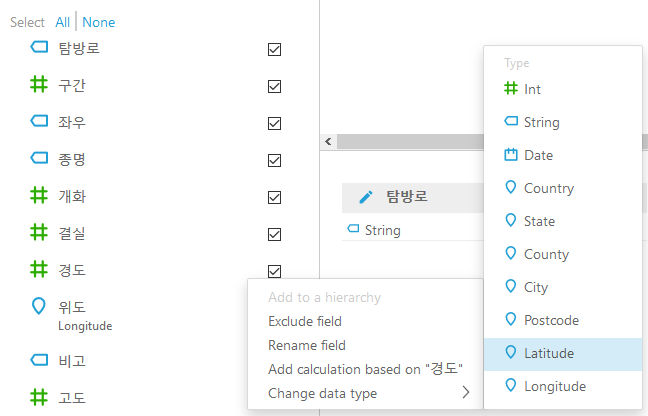
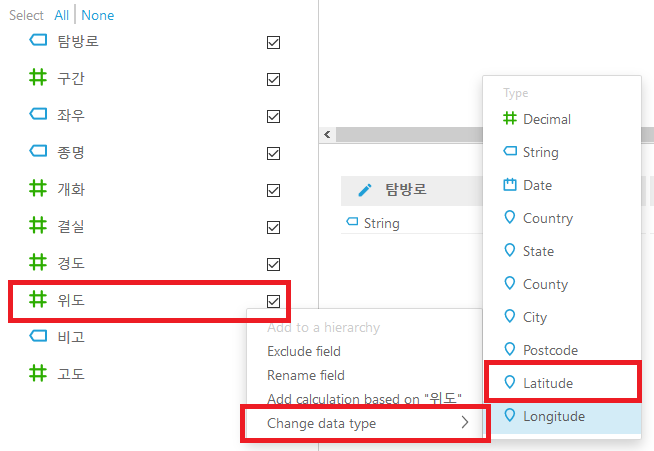
fix typos -_-;

diff --git a/Serverless/3_serverless_datalake/README.md b/Serverless/3_serverless_datalake/README.md
@@ -514,7 +514,6 @@ Cloning into 'handson-labs-2018'...
     ![](images/qs-datasource-newfield.png)
 
  - `New calculated field` 대화상자에서 고도를 100m 단위로 구분짓는 `고도등급` 필드를 추가
- 
     - `Calculated field name` 에 `고도등급` 입력
     - `Formula` 에 `floor(고도/100)` 입력
     - `Apply changes` 클릭
@@ -522,13 +521,14 @@ Cloning into 'handson-labs-2018'...
     ![](images/qs-new-field.png)
 
   - `경도`와 `위도`를 지형좌표 형식으로 변환합니다.
-  
-    ![](images/longitude.png)
+    - `경도`는 `Change data type`으로 `Longitude` 로, `위도`는 `Latitude` 로 바꿈
+       아래는 `위도` 변경의 예
 
-    ![](images/latitude.png)
+      ![](images/latitude.png)
 
 #### 차트 제작
 - QuickSight로 아래 그림과 같은 대쉬보드를 만들어 봅시다.
+
   ![dasbhboard](images/dashboard.png)
 
 차트명(차트 종류)
